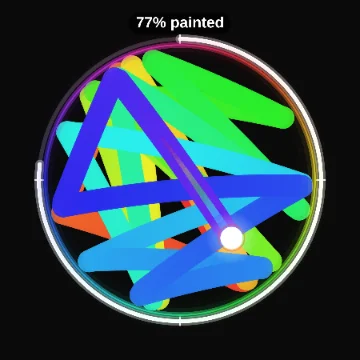
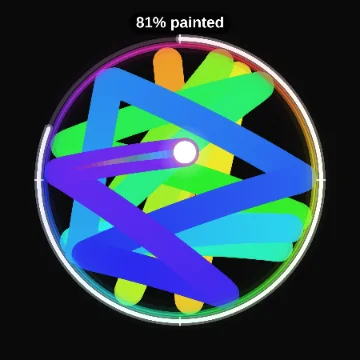
Round two (A6): every gallery look that used to run past its clip now ends inside it, Paint the Circle reaches 100 % by 22 s
Final review R10, site-missed-8, the gallery half of m1-plain-and-gallery-old-runs and modes-missed-3's Neon Escape. Each
look keeps its name, theme and picture idea and gains the finishing fields a mode already has, with a re-picked seed where
the old one ran long. Pinned seed, end in the laptop's 800 x 450 world / the phone's 450 x 450 world, measured in Node (the
finder's engine) and in Chromium (the page's still camera), which agree:

- Neon Escape (on the landing row): the start look's gap 1.0 at speed 500 on its eight rings, seed 8: out at 17.9 / 17.2 s
  (before: 0 of 12 seeds out by 45 s; its seed 37.8 s). Seeds 1-100: 170 of 200 runs by 27 s.
- Aurora Galaxy Wave: the page's 24 s cycle written out: IN LINE! at 24.0 s (was 60 s).
- Rainbow String Art: 64 strings: over at 21.2 s (was endless); seeds 1-100 all over at 19.0-22.4 s.
- Paint the Circle: Guide to the Gaps, seed 2: FULL CANVAS! "100% painted in 21.6s", then holds (was 60.5 s).
- Ten-Racer Grand Prix: the pace's 6 screens, seed 3: 22.9 s in both worlds (was 31.2 s).
- Matrix Growth: the multiply law ending at the fill: full at 14.2 s (was endless); picture at 12.5 s.
- Neon Vortex: the ring release: 22.5 s on every seed (was 43.0 s). The ring release reads no ball count and draws its own
  marbles, so vxn=20 and face=cute went, and its words now say what it plays, in en, pl and es.
- Retro Countdown Squares: ball speed 575: 17.0 s (was 7 of 12 seeds by 27 s).
[…]

diff --git a/src/content/gallery.ts b/src/content/gallery.ts
@@ -36,10 +36,13 @@ export interface GalleryPreset {
 }
 
 export const GALLERY: readonly GalleryPreset[] = [
+  // --- gallery-in-clip --- (round two A6) the start look's gap of 1.0 at ball speed 500 on its eight rings: 170 of 200 runs out by
+  // 27 s (seeds 1–100 in the laptop's and the phone's worlds; its old gap and speed: 0 of 12 by 45 s, its seed 499474398 out at
+  // 37.8 s); seed 8 is out at 17.9 s in the 800 × 450 world (17.2 s in a phone's 450 × 450), ESCAPED! at 15.9 s in the page
   {
     id: "neon-escape",
     mode: "classic",
-    query: "mode=classic&wc=8&tt=1.4&glow=1&rwalls=0&cc=%23ff00e6&bc=%2300f0ff&bc2=%23faff00&lc=%2300f0ff&wbreak=all&theme=neon&bgt=gradient&bg1=%230b0014&bg2=%231f0040&ps=sparks&trc=%2300f0ff%2C%23ff00e6&seed=499474398",
+    query: "mode=classic&s=500&wc=8&gap=1&tt=1.4&glow=1&rwalls=0&cc=%23ff00e6&bc=%2300f0ff&bc2=%23faff00&lc=%2300f0ff&wbreak=all&theme=neon&bgt=gradient&bg1=%230b0014&bg2=%231f0040&ps=sparks&trc=%2300f0ff%2C%23ff00e6&seed=8",
     previewAt: 5,
     name: { en: "Neon Escape", pl: "Neonowa ucieczka", es: "Escape de neón" },
     description: {
@@ -63,10 +66,12 @@ export const GALLERY: readonly GalleryPreset[] = [
       es: "Siete anillos arcoíris con huecos anchos y una bola rápida. Cada anillo que rompe sube una nota y la salida cierra con un acorde.",
     },
   },
+  // --- gallery-in-clip --- (round two A6) the page's 24 s cycle written out (--- pace-as-look --- the link base's is 60 s): IN LINE!
+  // at 24.0 s on every seed, in both worlds
   {
     id: "galaxy-pendulum",
     mode: "pendulum",
-    query: "mode=pendulum&pwn=30&pwtr=0.6&glow=1&rwalls=0&cc=%237cffcb&bc=%23ffffff&bc2=%23c084fc&lc=%237cffcb&pwl=galaxy&theme=aurora&bgt=gradient&bg1=%23020024&bg2=%23093637&ps=bubbles&trc=%237cffcb%2C%23c084fc&seed=132967117",
+    query: "mode=pendulum&pwn=30&pwk=20&pwt=24&pwtr=0.6&glow=1&rwalls=0&cc=%237cffcb&bc=%23ffffff&bc2=%23c084fc&lc=%237cffcb&pwl=galaxy&theme=aurora&bgt=gradient&bg1=%23020024&bg2=%23093637&ps=bubbles&trc=%237cffcb%2C%23c084fc&seed=132967117",
     previewAt: 12,
     name: { en: "Aurora Galaxy Wave", pl: "Galaktyka zorzy", es: "Galaxia boreal" },
     description: {
@@ -116,10 +121,12 @@ export const GALLERY: readonly GalleryPreset[] = [
       es: "Tres bolas de neón y doce filas de puertas x2, x3 y x5: mira cómo un puñado de bolas se convierte en cientos camino a casa.",
     },
   },
+  // --- gallery-in-clip --- (round two A6) the run ends at 64 strings with the finished picture and a chord (--- string-art ---): every
+  // run of seeds 1–100 is over at 19.0–22.4 s in both worlds (before: never); seed 1765313541 at 21.2 s
   {
     id: "string-art",
     mode: "lines",
-    query: "mode=lines&s=800&r=6&glow=1&rlines=1&seed=1765313541",
+    query: "mode=lines&s=800&r=6&lns=64&glow=1&rlines=1&seed=1765313541",
     previewAt: 20,
     name: { en: "Rainbow String Art", pl: "Tęczowy string art", es: "Arte de hilos arcoíris" },
     description: {
@@ -152,10 +159,12 @@ export const GALLERY: readonly GalleryPreset[] = [
       es: "Doce cuadrados con barras de vida en una arena circular que se encoge: el más rápido hace el daño y gana el último que quede en pie.",
     },
   },
+  // --- gallery-in-clip --- (round two A6) Guide to the Gaps (--- paint-full ---), so the counter reaches its 100 % inside the clip and
+  // FULL CANVAS! holds: 146 of 200 runs full by 27 s (before: seeds 1–12 full at 57–72 s); seed 2 full at 21.6 s in both worlds
   {
     id: "rainbow-paint",
     mode: "paint",
-    query: "mode=paint&g=100&r=14&glow=1&seed=914903224",
+    query: "mode=paint&g=100&r=14&glow=1&pgu=1&seed=2",
     previewAt: 14,
     name: { en: "Paint the Circle", pl: "Zamaluj koło", es: "Pinta el círculo" },
     description: {
@@ -205,7 +214,7 @@ export const GALLERY: readonly GalleryPreset[] = [
   {
     id: "grand-prix",
     mode: "race",
-    query: "mode=race&glow=1&rcn=10&seed=1689637060" /* --- finales-in-clip --- (B6: the 8-screen track; --- pace-as-look --- the link base's, the start look has 6) */,
+    query: "mode=race&glow=1&rcn=10&rcl=6&seed=3" /* --- finales-in-clip --- (B6: the 8-screen track; --- pace-as-look --- the link base's, the start look has 6) --- gallery-in-clip --- (round two A6: the start look's 6 screens written out, 190 of 200 runs over by 27 s; seed 3 at 22.9 s in both worlds, the podium on screen by 20 s; its old seed on 8 screens ran 31.2 s) */,
     previewAt: 6,
     name: { en: "Ten-Racer Grand Prix", pl: "Grand Prix dziesięciu", es: "Gran Premio de diez" },
     description: {
@@ -214,11 +223,13 @@ export const GALLERY: readonly GalleryPreset[] = [
       es: "Diez cuadrados caen por una pista de rebotadores, turbos y zonas de intercambio, con clasificación en directo, avisos de adelantamiento y podio.",
     },
   },
+  // --- gallery-in-clip --- (round two A6) the multiply law, the run ending at the fill (its own 11 % a bounce from 5 %, faster than
+  // Fill the Ring's start look): every run of seeds 1–100 full at 11.7–14.9 s in both worlds (before: never); seed 2004386250 at 14.2 s
   {
     id: "matrix-grow",
     mode: "grow",
-    query: "mode=grow&glow=1&rwalls=0&glines=1&cc=%2300ff41&bc=%23b7ffbf&bc2=%23008f11&lc=%2300ff41&theme=matrix&bg1=%23000a00&bg2=%23002200&ps=pixels&trc=%2300ff41%2C%23003b00&seed=2004386250",
-    previewAt: 14,
+    query: "mode=grow&glow=1&rwalls=0&glines=1&cc=%2300ff41&bc=%23b7ffbf&bc2=%23008f11&lc=%2300ff41&theme=matrix&bg1=%23000a00&bg2=%23002200&ps=pixels&trc=%2300ff41%2C%23003b00&gLaw=multiply&gFill=finish&seed=2004386250",
+    previewAt: 12.5,
     name: { en: "Matrix Growth", pl: "Wzrost w Matriksie", es: "Crecimiento Matrix" },
     description: {
       en: "A pale green ball in digital-rain colours grows with every bounce, strung to every hit, until there is no room left to move.",
@@ -255,22 +266,26 @@ export const GALLERY: readonly GalleryPreset[] = [
       es: "Una pelota sale del anillo al instante y cada escape suma tres más. La cuenta se duplica una y otra vez hasta que el enjambre llega a 200 y el anillo estalla.",
     },
   },
+  // --- gallery-in-clip --- (round two A6) the start look's ring release written out: over at 22.5 s on every seed, in both worlds (the
+  // stagger of twenty ran 43.0 s). The ring release draws its own marbles and reads no ball count, so the faces and the twenty went
   {
     id: "neon-vortex",
     mode: "vortex",
-    query: "mode=vortex&glow=1&rwalls=0&cc=%23ff00e6&bc=%2300f0ff&bc2=%23faff00&lc=%2300f0ff&face=cute&theme=neon&bgt=gradient&bg1=%230b0014&bg2=%231f0040&ps=sparks&trc=%2300f0ff%2C%23ff00e6&vxn=20&seed=199343859" /* --- finales-in-clip --- (B6: the stagger release; --- pace-as-look --- the link base's, the start look plays the rings) */,
+    query: "mode=vortex&glow=1&rwalls=0&cc=%23ff00e6&bc=%2300f0ff&bc2=%23faff00&lc=%2300f0ff&theme=neon&bgt=gradient&bg1=%230b0014&bg2=%231f0040&ps=sparks&trc=%2300f0ff%2C%23ff00e6&vxrl=rings&seed=199343859" /* --- finales-in-clip --- (B6: the stagger release; --- pace-as-look --- the link base's, the start look plays the rings) */,
     previewAt: 13,
     name: { en: "Neon Vortex", pl: "Neonowy wir", es: "Vórtice de neón" },
     description: {
-      en: "Twenty smiling balls spiral down a magenta whirlpool of sound rings. Each one a rising glissando, each swallow a pew.",
-      pl: "Dwadzieścia uśmiechniętych piłek schodzi spiralą w purpurowy wir dźwiękowych pierścieni. Każda to wznoszące się glissando, każde połknięcie to „piu”.",
-      es: "Veinte bolas sonrientes bajan en espiral por un remolino magenta de anillos sonoros: cada una es un glissando ascendente y cada tragada, un «piu».",
+      en: "Rainbow marbles drop into a magenta whirlpool in waves of 6, 12 and 24, each wave a perfect ring. Every lap plays a chime that climbs as the ring spins faster.",
+      pl: "Tęczowe kulki wpadają do purpurowego wiru falami po 6, 12 i 24, a każda fala to idealny pierścień. Każde okrążenie gra dzwonek, który idzie w górę, gdy pierścień przyspiesza.",
+      es: "Canicas arcoíris caen a un remolino magenta en oleadas de 6, 12 y 24, cada una un anillo perfecto. Cada vuelta toca una campanita que sube cuando el anillo acelera.",
     },
   },
+  // --- gallery-in-clip --- (round two A6) the start look's ball speed of 575: every run of seeds 1–100 over at 14.1–21.5 s in
+  // both worlds (at 400: 7 of 12 by 27 s); seed 1436349377 at 17.0 s
   {
     id: "countdown-squares",
     mode: "box",
-    query: "mode=box&bxn=4&bxgr=3&glow=1&rwalls=0&cc=%23ff71ce&bc=%23fffb96&bc2=%2301cdfe&lc=%2305ffa1&theme=retro&bgt=gradient&bg1=%231a1033&bg2=%233d0f4f&ps=pixels&trc=%23ff71ce%2C%2301cdfe&seed=1436349377",
+    query: "mode=box&s=575&bxn=4&bxgr=3&glow=1&rwalls=0&cc=%23ff71ce&bc=%23fffb96&bc2=%2301cdfe&lc=%2305ffa1&theme=retro&bgt=gradient&bg1=%231a1033&bg2=%233d0f4f&ps=pixels&trc=%23ff71ce%2C%2301cdfe&seed=1436349377",
     previewAt: 8,
     name: { en: "Retro Countdown Squares", pl: "Retro odliczanie", es: "Cuadrados en cuenta atrás" },
     description: {
@@ -303,16 +318,19 @@ export const GALLERY: readonly GalleryPreset[] = [
       es: "Los pintores cubren la arena de negro esquivando una forma secreta: mira cómo el blanco se reduce hasta que solo queda un corazón.",
     },
   },
+  // --- gallery-in-clip --- (round two A6) the pour at 14 s (--- collide-pour ---), the orbs still colliding as they go: EMPTY! at
+  // 21.2–22.0 s on seeds 1–40 in both worlds (before: never); seed 1503023980 at 21.4 s, its picture the pour at 20 s (the jar, now
+  // up in the square to leave the heap room, from the first frame)
   {
     id: "squishy-orbs",
     mode: "collide",
-    query: "mode=collide&glow=1&rwalls=0&cpsq=1&cc=%23ffc8dd&bc=%23bde0fe&bc2=%23cdb4db&lc=%23ffafcc&theme=pastel&bgt=gradient&bg1=%232b2d42&bg2=%234a4e69&ps=petals&trc=%23a2d2ff%2C%23ffc8dd&seed=1503023980",
-    previewAt: 3,
+    query: "mode=collide&cppo=14&glow=1&rwalls=0&cpsq=1&cc=%23ffc8dd&bc=%23bde0fe&bc2=%23cdb4db&lc=%23ffafcc&theme=pastel&bgt=gradient&bg1=%232b2d42&bg2=%234a4e69&ps=petals&trc=%23a2d2ff%2C%23ffc8dd&seed=1503023980",
+    previewAt: 20,
     name: { en: "Squishy Pastel Orbs", pl: "Miękkie pastelowe kule", es: "Orbes pastel blanditos" },
     description: {
-      en: "Three hundred jelly-soft orbs squash and stretch against each other in a pastel circle, every collision a soft note pitched by size.",
-      pl: "Trzysta galaretowato miękkich kul zgniata się i rozciąga o siebie w pastelowym kole, a każde zderzenie to cicha nuta zależna od wielkości.",
-      es: "Trescientos orbes blandos como gelatina se aplastan y estiran entre sí en un círculo pastel, y cada choque es una nota suave según su tamaño.",
+      en: "Three hundred jelly-soft orbs squash and stretch in a pastel circle, every collision a soft note. Then the floor opens and they pour out, smallest first.",
+      pl: "Trzysta galaretowato miękkich kul zgniata się i rozciąga w pastelowym kole, a każde zderzenie to cicha nuta. Potem dno się otwiera i kule wysypują się, od najmniejszych.",
+      es: "Trescientos orbes blandos como gelatina se aplastan y estiran en un círculo pastel, y cada choque es una nota suave. Luego se abre el fondo y caen, los más pequeños primero.",
     },
   },
   // --- gallery-every-mode --- (Lane E, E2) a finished look for every mode that had none: each a measured run (the seed's end
@@ -344,10 +362,13 @@ export const GALLERY: readonly GalleryPreset[] = [
     },
   },
   // --- gallery-every-mode --- seed 7: the run ends at 25.1 s of its 30 s clip in the 800 × 450 world (25.1 s in a phone's 450 × 450)
+  // --- gallery-in-clip --- (round two A6) the start look's run (--- portal-options --- five pairs of three jumps, the page's ball and
+  // wall, as the card since round two A5): 182 of 200 runs out by 27 s (the ball of 11 and wall of 5 with the old pairs: 4 of 12);
+  // seed 5 out at 16.9 s in both worlds, after 11 teleports
   {
     id: "aurora-portals",
     mode: "portal",
-    query: "mode=portal&r=11&wt=5&tt=1.6&glow=1&wglow=1&rwalls=0&cc=%237cffcb&bc=%23ffffff&bc2=%23c084fc&lc=%237cffcb&theme=aurora&bgt=gradient&bg1=%23020024&bg2=%23093637&ps=bubbles&trc=%237cffcb%2C%23c084fc&seed=7",
+    query: "mode=portal&tt=1.6&glow=1&wglow=1&rwalls=0&cc=%237cffcb&bc=%23ffffff&bc2=%23c084fc&lc=%237cffcb&ptc=5&ptu=3&theme=aurora&bgt=gradient&bg1=%23020024&bg2=%23093637&ps=bubbles&trc=%237cffcb%2C%23c084fc&seed=5",
     previewAt: 14,
     name: { en: "Aurora Portals", pl: "Portale zorzy", es: "Portales de aurora" },
     description: {

diff --git a/src/lib/clipPacing.ts b/src/lib/clipPacing.ts
@@ -156,8 +156,8 @@ const PADDLE_PACE: Partial<SimulatorSettings> = Object.freeze({ pdGoal: 20 });
  * (Territory's countdown is 30 s on every seed, and Bouncing Orbs' rhythm field never ends: the page's 30 stays.) Only while the
  * mode's run fields are at their page pace (`clipPacingDefaults()`; the ring modes' glow is a look): a link that sets its own
  * course keeps the page's 30, and (--- pace-as-look ---) a bare link, which plays the link base, gets the target of the look
- * whose run it plays (`LOOK_FIND_SEC`: Pendulum Wave's 60 s cycle is galaxy-pendulum's run, Race's and Beat Runner's are their
- * Challenge looks', 1.17.0's deals; A-g2 review) or else the page's 30. Simulator.tsx sets it when the page starts a mode (a
+ * whose run it plays (`LOOK_FIND_SEC`: Pendulum Wave's 60 s cycle is the run of 1.17.0's galaxy-pendulum, Race's and Beat Runner's
+ * are their Challenge looks', 1.17.0's deals; A-g2 review) or else the page's 30. Simulator.tsx sets it when the page starts a mode (a
  * first visit, a mode picked), and (--- find-target-follows --- round two A2b) whenever another run comes onto the page while
  * the target is still the page's own.
  */
@@ -237,7 +237,11 @@ const START_FIND_SEC: Readonly<Partial<Record<ModeId, number>>> = Object.freeze(
 // --- find-target-follows --- (round two A2b)
 /** A look's own target: the fields that make its run (every one must match: the pace's or the start look's and the look's own) and the target measured on it. */
 interface LookFindTarget {
-  /** The look of the studio's Looks row it was measured on (src/content/looks.ts): the card, a gallery preset, the daily look. */
+  /**
+   * The look of the studio's Looks row it was measured on (src/content/looks.ts): the card, a gallery preset, the daily look;
+   * (--- gallery-in-clip --- round two A6) or "link" for a run only a link plays now: a bare `?mode=` (the link base) or a gallery
+   * preset's 1.17.0 link, whose look plays another run since.
+   */
   look: string;
   run: Partial<SimulatorSettings>;
   sec: number;
@@ -250,15 +254,22 @@ interface LookFindTarget {
  * or above the Find slider's 10 s (RANGES.findDuration's minimum) with the most runs within its ± 0.5 s (the first of a tie; A-g1
  * review: below it, the Bullseye card's 9.5 s, its run before round two A5, holds 112 runs of 200 and the Maze card's 7 s 24);
  * in brackets the runs within ± 0.5 s of 200, then those of the target the look would get without its entry. A fixed-length run
- * (Pendulum Wave's 60 s, the Polyrhythm's 12 s) gets its own length. (Not here: looks the page's 30 already finds – Grand Prix 30
- * of 200, Vortex's Challenge look 82, Red Maze Race 10, Aurora Portals 10 –, Portal's Challenge look, which is its link base
- * (16.5 s: 6, 30 s: 4; the link base keeps the page's 30), and the looks whose runs do not end in a clip, Neon Escape and the
- * endless ones.)
+ * (Pendulum Wave's 60 s, the Polyrhythm's 12 s) gets its own length. (Not here: looks the page's 30 already finds – Vortex's
+ * Challenge look 82, Red Maze Race 10 –, Portal's Challenge look, which is its link base (16.5 s: 6, 30 s: 4; the link base keeps
+ * the page's 30), and the endless looks.)
+ * --- gallery-in-clip --- (round two A6) The gallery's looks that end in their clip now, measured the same way: Neon Escape, Rainbow
+ * String Art, Paint the Circle, Matrix Growth, Squishy Pastel Orbs, Retro Countdown Squares and the Ten-Racer Grand Prix (A
+ * look's 12 seeds of tests/clipPacing.test.ts must land one run too: Retro Countdown Squares' 17.5 s, 40 of 200, lands none of
+ * them, so it takes 16 s, 38; the Grand Prix's 24 s lands one, the race pace's 22 s none.) Aurora Galaxy Wave, Neon Vortex and
+ * Aurora Portals play their mode's start look and take its target. The entries of their 1.17.0 runs stay for those links.
  */
 const LOOK_FIND_SEC: Readonly<Partial<Record<ModeId, readonly LookFindTarget[]>>> = Object.freeze({
-  classic: [{ look: "daily", run: { wallCount: 5, gapSize: 0.4, ballSpeed: 500 }, sec: 36 }], // (13; 30 s: 3) median 43.9 s
+  classic: [
+    { look: "daily", run: { wallCount: 5, gapSize: 0.4, ballSpeed: 500 }, sec: 36 }, // (13; 30 s: 3) median 43.9 s
+    { look: "neon-escape", run: { wallCount: 8, gapSize: 1, ballSpeed: 500 }, sec: 21 }, // --- gallery-in-clip --- (29; 18 s: 7) the start look's pace on eight rings
+  ],
   target: [{ look: "daily", run: { targetCount: 6, ballSpeed: 400 }, sec: 20 }], // (20; 30 s: 4)
-  pendulum: [{ look: "galaxy-pendulum", run: { pwCycleSeconds: 60, pwBaseOscillations: 51 }, sec: 60 }], // IN LINE! at 60.0 s on every seed
+  pendulum: [{ look: "link", run: { pwCycleSeconds: 60, pwBaseOscillations: 51 }, sec: 60 }], // IN LINE! at 60.0 s on every seed (--- gallery-in-clip --- a bare link and 1.17.0's galaxy-pendulum; the preset plays the page's 24 s since round two A6)
   polyrhythm: [{ look: "polygon-polyrhythm", run: { prCycleSeconds: 12, prTempos: "custom", prCustom: "3,4,5,6,7,8,9,10" }, sec: 12 }], // in phase at 12.0 s
   spiralGlass: [{ look: "card", run: { sgGlassHp: 1, sgSpeed: 1.2 }, sec: 19.5 }], // the card and Sunset Spiral (182; 24 s: 0)
   shatter: [{ look: "card", run: { ...SHATTER_PACE, ballRadius: 11 }, sec: 13 }], // (22; 15 s: 2)
@@ -270,8 +281,11 @@ const LOOK_FIND_SEC: Readonly<Partial<Record<ModeId, readonly LookFindTarget[]>>
     { look: "daily", run: { runnerObstacles: 24, runnerDensity: 0.6, runnerSpeed: 9, runnerJump: 2.6 }, sec: 32 }, // (44; 30 s: 20) median 32.1 s, 27.6–36.1 s
   ],
   // (A-g2 review) the Challenge look (glow on the link base, 1.17.0's deal) and a bare `?mode=race`: 1.17.0's eight screens
-  race: [{ look: "daily", run: { rcRacers: 8, rcTrackLength: 8, rcLaps: 1, rcWinner: -1 }, sec: 27.5 }], // (40; 30 s: 20) median 28.4 s, 23.5–37.0 s
-  vortex: [{ look: "neon-vortex", run: { vxRelease: "stagger", vxBalls: 20 }, sec: 41.5 }], // (98; 0)
+  race: [
+    { look: "daily", run: { rcRacers: 8, rcTrackLength: 8, rcLaps: 1, rcWinner: -1 }, sec: 27.5 }, // (40; 30 s: 20) median 28.4 s, 23.5–37.0 s
+    { look: "grand-prix", run: { rcRacers: 10, rcTrackLength: 6, rcLaps: 1, rcWinner: -1 }, sec: 24 }, // --- gallery-in-clip --- (44; 22 s: 39) ten racers on the pace's 6 screens
+  ],
+  vortex: [{ look: "link", run: { vxRelease: "stagger", vxBalls: 20 }, sec: 41.5 }], // (98; 0) (--- gallery-in-clip --- 1.17.0's neon-vortex; the preset plays the ring release since round two A6)
   bullseye: [
     // (--- card-looks --- round two A5: the card plays the start look's run, so the pace's 25; its earlier run, a shot every 0.4 s
     // and the bull on shot 2, had 10 here)
@@ -282,7 +296,16 @@ const LOOK_FIND_SEC: Readonly<Partial<Record<ModeId, readonly LookFindTarget[]>>
   // (A-g2 review) the Challenge look (pdsp=1 on the link base, 1.17.0's deal: lib/dailyCore.ts) plays this run too, and 19.5 s is
   // its best target as well (12 of 200; 30 s: 2), median 28.8 s
   paddle: [{ look: "sunset-keep-up", run: { pdGoal: 0, pdSpin: 1 }, sec: 19.5 }], // (12; 2) game over at 10–54 s
-  paint: [{ look: "rainbow-paint", run: { ballRadius: 14, ballSpeed: 400, paintGuide: false, gravity: 100 }, sec: 67.5 }], // (20; 0) full at 47–86 s
+  paint: [
+    { look: "link", run: { ballRadius: 14, ballSpeed: 400, paintGuide: false, gravity: 100 }, sec: 67.5 }, // (20; 0) full at 47–86 s (--- gallery-in-clip --- 1.17.0's rainbow-paint)
+    { look: "rainbow-paint", run: { ballRadius: 14, ballSpeed: 400, paintGuide: true, gravity: 100 }, sec: 24 }, // --- gallery-in-clip --- (34; 30 s: 10) full at 17.9–36.9 s
+  ],
+  // --- gallery-in-clip --- (round two A6)
+  lines: [{ look: "string-art", run: { ballSpeed: 800, ballRadius: 6, lnStrings: 64 }, sec: 21 }], // (112; 30 s: 0) over at 19.0–22.4 s
+  grow: [{ look: "matrix-grow", run: { growLaw: "multiply", growOnFill: "finish", growStep: 11, growStart: 5 }, sec: 14 }], // (92; 0) full at 11.7–14.9 s
+  collide: [{ look: "squishy-orbs", run: { cpPourAt: 14, cpAntiCollisionAt: 0, cpSyncStart: false }, sec: 21.5 }], // (80 of 80, seeds 1–40; 0) empty at 21.2–22.0 s
+  box: [{ look: "countdown-squares", run: { boxShapeCount: 4, boxGrowPerHit: 3, ballSpeed: 575, boxAspect: 0.56 }, sec: 16 }], // (38; 0) over at 14.1–21.5 s
+  // --- end gallery-in-clip ---
   illusion: [{ look: "hidden-heart", run: { ilStage: false, ilCycles: 0, ilType: "whitespace", ilPattern: "heart" }, sec: 21 }], // (78; 0)
   conveyor: [
     { look: "pastel-conveyor", run: { cvInterval: 1, cvMaxBalls: 12 }, sec: 21 }, // (93; 0)

diff --git a/tests/clipPacing.test.ts b/tests/clipPacing.test.ts
@@ -188,8 +188,9 @@ describe("what was measured on the old defaults keeps them", () => {
   });
 
   it("keeps the gallery's Pendulum Wave preset and the daily Countdown deals on the runs they were picked for", () => {
+    // (--- gallery-in-clip --- round two A6: the preset was picked for the page's 24 s cycle, written out; 1.17.0's link keeps 60 s)
     const pendulum = settingsFromSearchParams(new URLSearchParams(GALLERY.find((p) => p.id === "galaxy-pendulum")!.query));
-    expect([pendulum.pwCycleSeconds, pendulum.pwBaseOscillations]).toEqual([60, 51]);
+    expect([pendulum.pwCycleSeconds, pendulum.pwBaseOscillations]).toEqual([24, 20]);
     const deal = DAILY_POOL.find((entry) => entry.mode === "target")!;
     const daily = settingsFromSearchParams(new URLSearchParams(`mode=target&${deal.look}`));
     expect([daily.targetCount, daily.ballSpeed, daily.showGlow]).toEqual([6, 400, true]);
@@ -373,12 +374,13 @@ describe("--- find-target-follows --- Find's target follows the run on the page"
     expect(studio.put(startSettings("maze"))).toBe(15); // another mode (a batch job, a share code) starts on its own
     expect(studio.put(onLook("maze", "card"))).toBe(10.5);
     expect(studio.put(startSettings("runner"))).toBe(22); // the page's own settings back: its own target
-    // (A-g1 review) a typed target equal to a look's own: the bare studio (Classic's start look, 18), 30 typed, Neon Escape (30)
-    // and Plain again keep the 30 the visitor typed (before, Plain took it back to 18)
+    // (A-g1 review) a typed target equal to a look's own: the bare studio (Classic's start look, 18), 36 typed, the Challenge look
+    // (36) and Plain again keep the 36 the visitor typed (before, Plain took it back to 18) (--- gallery-in-clip --- round two A6:
+    // Neon Escape, the look of 30 this walked through, ends in its clip now, with a target of its own)
     const classic = page(startSettings("classic"));
-    classic.type(30);
-    expect(classic.put(onLook("classic", "neon-escape"))).toBe(30);
-    expect(classic.put(startSettings("classic"))).toBe(30);
+    classic.type(36);
+    expect(classic.put(onLook("classic", "daily"))).toBe(36);
+    expect(classic.put(startSettings("classic"))).toBe(36);
   });
 
   it("looks up an exact look first, then the start look, then the pace, then the page's 30", () => {
@@ -392,7 +394,7 @@ describe("--- find-target-follows --- Find's target follows the run on the page"
     expect(clipPacingFindSec({ ...startSettings("runner"), runnerObstacles: 24, runnerDensity: 0.6 })).toBe(32);
     expect(clipPacingFindSec({ ...startSettings("runner"), runnerObstacles: 20, runnerDensity: 0.6 })).toBe(30);
     // (A-g2 review) a bare link plays the link base, and gets the target of the look whose run that is: Race's and Beat Runner's
-    // Challenge looks (1.17.0's deals), Pendulum Wave's galaxy-pendulum (60 s); a race of its own keeps the page's 30
+    // Challenge looks (1.17.0's deals), Pendulum Wave's 60 s cycle (1.17.0's galaxy-pendulum); a race of its own keeps the page's 30
     expect(["race", "runner", "pendulum"].map((mode) => clipPacingFindSec(settingsFromSearchParams(new URLSearchParams(`mode=${mode}`))))).toEqual([27.5, 32, 60]);
     expect(clipPacingFindSec(settingsFromSearchParams(new URLSearchParams("mode=race&rcn=10")))).toBe(30);
     // the start look before the page's 30, with every field of its run; its sounds, effects and glow are its look
@@ -413,6 +415,7 @@ describe("--- find-target-follows --- Find's target follows the run on the page"
     "classic/start": 18, // before 30 (1 run of 200 within ± 0.5 s; now 27)
     "classic/card": 18, // (0; 26)
     "classic/daily": 36, // (3; 13)
+    "classic/neon-escape": 21, // --- gallery-in-clip --- (round two A6: before 30, its runs never ended) (7; 29)
     "accumulation/start": 14.5, // (4; 12)
     "multiply/start": 19, // (0; 82)
     "grow/start": 19.5, // (0; 114)
@@ -427,7 +430,7 @@ describe("--- find-target-follows --- Find's target follows the run on the page"
     "conveyor/bowl-overflow": 25.5, // (0; 109)
     "ctf/start": 20, // (8; 12)
     "target/daily": 20, // - (20)
-    "pendulum/galaxy-pendulum": 60, // IN LINE! at 60.0 s (before 24: "always 60.0 s")
+    "pendulum/galaxy-pendulum": 24, // --- gallery-in-clip --- (round two A6) the page's 24 s cycle: IN LINE! at 24.0 s (its 1.17.0 run: 60)
     "polyrhythm/polygon-polyrhythm": 12, // in phase at 12.0 s (before 24)
     "spiralGlass/card": 19.5, // (0; 182)
     "spiralGlass/sunset-spiral": 19.5, // (0; 182)
@@ -435,11 +438,11 @@ describe("--- find-target-follows --- Find's target follows the run on the page"
     "runner/card": 20.5, // (22; 104)
     "runner/retro-runner": 25.5, // (0; 86)
     "runner/daily": 32, // (20; 44) A-g2 review: 1.17.0's deal on the link base
-    "vortex/neon-vortex": 41.5, // (0; 98)
+    "vortex/neon-vortex": 22.5, // --- gallery-in-clip --- (round two A6) the ring release, 22.5 s on every seed (its 1.17.0 run: 41.5)
     "vortex/daily": 30, // (0; 82)
     "bullseye/card": 25, // (round two A5: the card plays the start look's run, the pace's target; its earlier run had 10 of its own)
     "bullseye/candy-darts": 10.5, // (0; 94)
-    "race/grand-prix": 30, // (0; 30)
+    "race/grand-prix": 24, // --- gallery-in-clip --- (round two A6) ten racers on the pace's 6 screens (39; 44) (its 1.17.0 run: 30)
     "race/daily": 27.5, // (20; 40) A-g2 review: 1.17.0's deal on the link base
     "journey/card": 22.5, // (32; 42)
     "journey/pastel-commute": 22.5, // (32; 42)
@@ -447,10 +450,13 @@ describe("--- find-target-follows --- Find's target follows the run on the page"
     "maze/red-maze-race": 30, // (6; 10)
     "paddle/sunset-keep-up": 19.5, // (8; 12)
     "paddle/daily": 19.5, // (2; 12) A-g2 review: 1.17.0's deal, Sunset Keep-Up's run
-    "paint/rainbow-paint": 67.5, // (0; 20)
-    "portal/aurora-portals": 30, // (0; 10)
+    "paint/rainbow-paint": 24, // --- gallery-in-clip --- (round two A6) Guide to the Gaps (10; 34) (its 1.17.0 run: 67.5)
+    "portal/aurora-portals": 16.5, // --- gallery-in-clip --- (round two A6) the start look's run and target (its 1.17.0 run: 30)
     "portal/daily": 30, // (6; 4: Portal's link base, which keeps the page's 30)
-    "lines/string-art": 30, // the finder reads it as endless
+    "lines/string-art": 21, // --- gallery-in-clip --- (round two A6) 64 strings (0; 112) (its 1.17.0 run, endless: 30)
+    "grow/matrix-grow": 14, // --- gallery-in-clip --- (round two A6) the multiply law to the fill (0; 92)
+    "collide/squishy-orbs": 21.5, // --- gallery-in-clip --- (round two A6) the pour at 14 s (0; 80 of 80)
+    "box/countdown-squares": 16, // --- gallery-in-clip --- (round two A6) ball speed 575 (0; 38)
   };
 
   it("gives each look its own target", () => {
@@ -460,10 +466,10 @@ describe("--- find-target-follows --- Find's target follows the run on the page"
     }
   });
 
-  // seeds 1–12 of the laptop world (1–6 for the three costliest runs, 1–20 for the two looks with the fewest runs on a target),
+  // seeds 1–12 of the laptop world (1–6 for the four costliest runs, 1–20 for the two looks with the fewest runs on a target),
   // the page's own request: the target lands at least one run within ± 0.5 s, and at least as many as the page's 30 (Classic's
   // Challenge look 1 and 1 here, 13 and 3 of 200); a fixed-length run is its target
-  const SEEDS_OF: Record<string, number> = { "collide/start": 6, "conveyor/bowl-overflow": 6, "multiply/start": 6, "classic/daily": 20, "ctf/start": 20 };
+  const SEEDS_OF: Record<string, number> = { "collide/start": 6, "conveyor/bowl-overflow": 6, "multiply/start": 6, "classic/daily": 20, "ctf/start": 20, "collide/squishy-orbs": 6 /* --- gallery-in-clip --- */ };
   it("lands the runs of each look it gives a target", { timeout: 240_000 }, () => {
     const world = { width: 800, height: 450 };
     const near = (ends: number[], t: number) => ends.filter((end) => Math.abs(end - t) <= 0.5 + 1e-9).length;

diff --git a/tests/gallery.test.ts b/tests/gallery.test.ts
@@ -7,6 +7,7 @@ import { MODE_IDS } from "@/lib/physics/types";
 import { shelfOf } from "@/lib/siteDesign"; // --- gallery-every-mode ---
 import { parseSeed } from "@/lib/recording/batch";
 import { settingsFromSearchParams, settingsToSearchParams } from "@/lib/settings";
+import { simulate } from "@/lib/agentKit/simulate"; // --- gallery-in-clip ---
 import en from "../messages/en.json";
 import pl from "../messages/pl.json";
 import es from "../messages/es.json";
@@ -74,6 +75,22 @@ describe("preset gallery (src/content/gallery.ts)", () => {
       }
       expect(preset.description.pl).not.toBe(preset.description.en);
       expect(preset.description.es).not.toBe(preset.description.en);
+    }
+  });
+
+  // --- gallery-in-clip --- (round two A6) the looks whose runs went past their clip (final review R10 and site-missed-8: Paint the
+  // Circle's counter reached 100 % at 60.5 s, Neon Escape, Rainbow String Art and Matrix Growth never ended) end inside it: the
+  // pinned seed in a laptop's world (800 × 450, the world of the pictures) is over by 27 s, so the end card's 2 s fit a 30 s clip
+  it("ends the runs of the looks that used to run past their clip inside it", { timeout: 120_000 }, () => {
+    const ENDS_BY_27: readonly string[] = ["neon-escape", "galaxy-pendulum", "sunset-shatter", "string-art", "rainbow-paint", "grand-prix", "matrix-grow", "neon-vortex", "countdown-squares", "squishy-orbs", "aurora-portals"];
+    for (const id of ENDS_BY_27) {
+      const preset = GALLERY.find((p) => p.id === id)!;
+      const params = new URLSearchParams(preset.query);
+      const seed = parseSeed(params.get("seed"))!;
+      params.delete("seed");
+      const run = simulate({ settings: settingsFromSearchParams(params), seed, seconds: 30, world: { width: 800, height: 450 } });
+      expect([id, run.finished, (run.finishSec ?? Infinity) <= 27]).toEqual([id, true, true]);
+      expect(preset.previewAt, id).toBeLessThan(run.finishSec!);
     }
   });
 

diff --git a/tests/growFillClip.test.ts b/tests/growFillClip.test.ts
@@ -37,9 +37,10 @@ describe("the start look", () => {
     expect(clipPacingDefaults("grow")).toEqual({});
     const card = GALLERY.find((p) => p.id === "fill-the-ring")!;
     expect(settingsFromSearchParams(new URLSearchParams(card.query))).toMatchObject({ mode: "grow", ...START });
-    // the gallery's Matrix Growth card still plays the classic Grow
+    // (--- gallery-in-clip --- round two A6) the gallery's Matrix Growth card plays the multiply law to the fill too, at the mode's
+    // own 11 % a bounce from 5 %: before, the classic Grow it played never ended
     const matrix = settingsFromSearchParams(new URLSearchParams(GALLERY.find((p) => p.id === "matrix-grow")!.query));
-    expect([matrix.growLaw, matrix.growOnFill]).toEqual(["approach", "stay"]);
+    expect([matrix.growLaw, matrix.growOnFill]).toEqual(["multiply", "finish"]);
   });
 
   it("fills the ring inside the clip on every seed, in both worlds, with a pluck a bounce and no buzz", () => {
